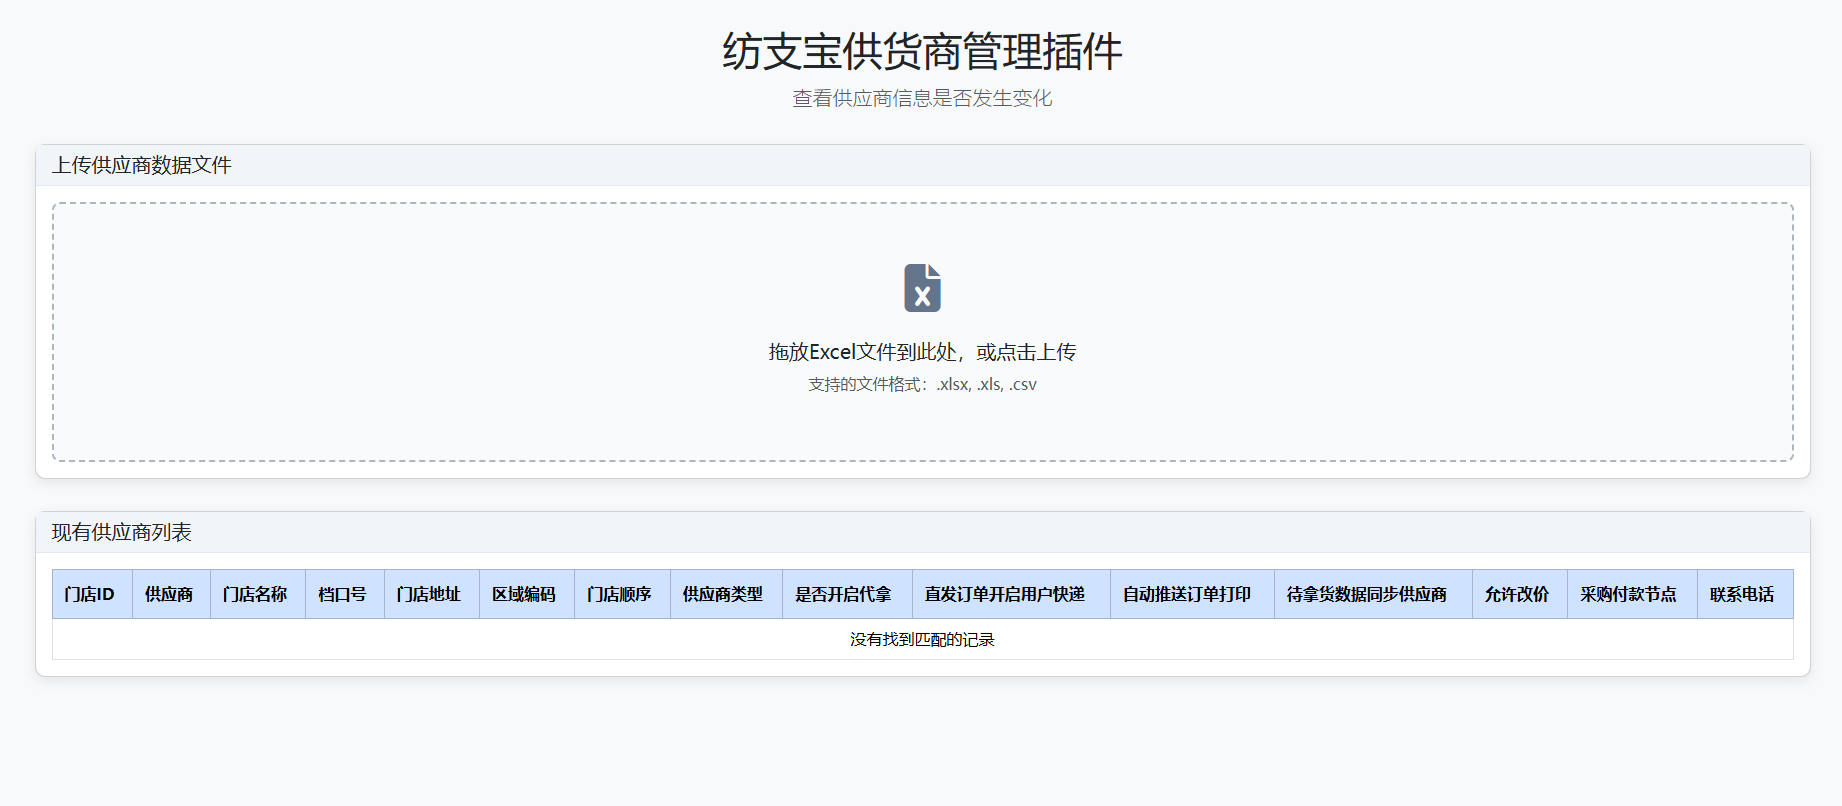
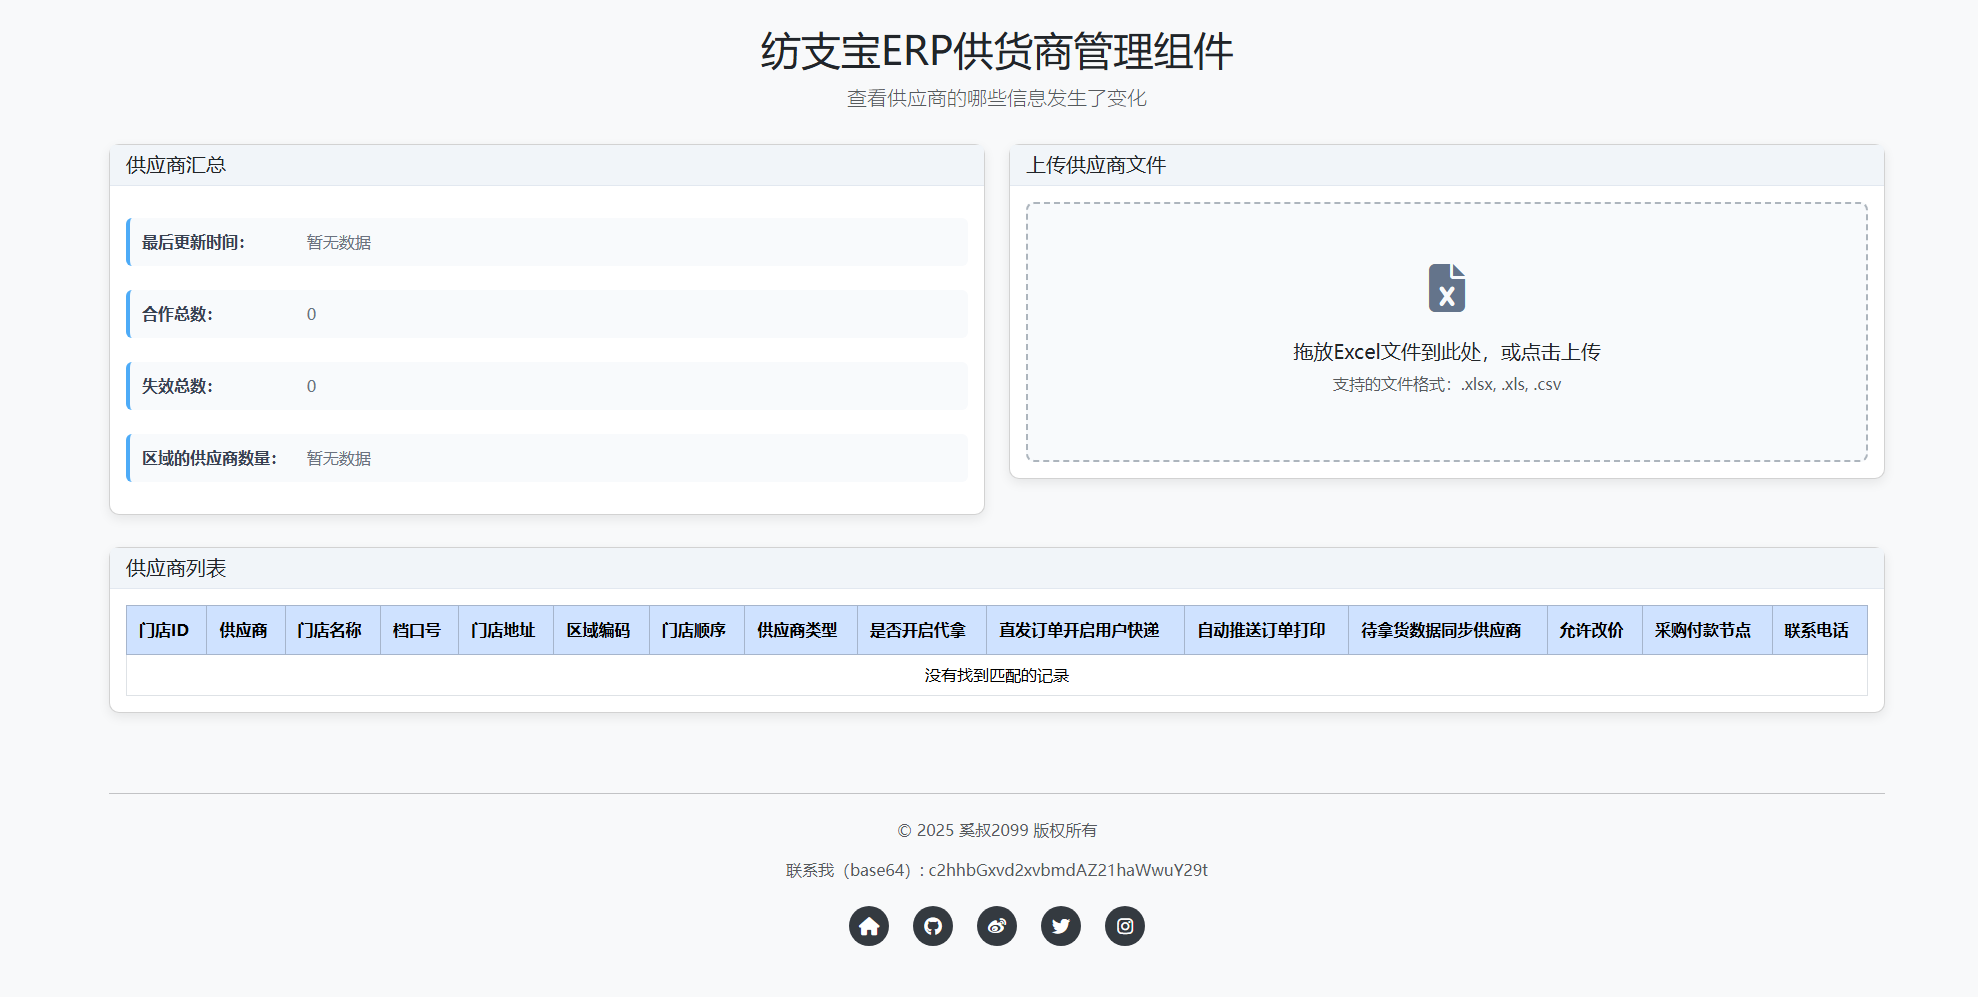
add the supplier data display

diff --git a/views/main.html b/views/main.html
@@ -6,27 +6,59 @@
 			<p class="lead text-muted">查看供应商的哪些信息发生了变化</p>
 		</div>
 
-		<div class="card">
-			<div class="card-header">
-				<h5 class="mb-0">上传供应商数据文件</h5>
-			</div>
-			<div class="card-body">
-				<div class="upload-area" id="uploadArea">
-					<div class="upload-icon">
-						<i class="fas fa-file-excel"></i>
+		<div class="row">
+			<div class="col-md-6">
+				<div class="card">
+					<div class="card-header">
+						<h5 class="mb-0">供应商汇总</h5>
 					</div>
-					<h5>拖放Excel文件到此处，或点击上传</h5>
-					<p class="text-muted">支持的文件格式：.xlsx, .xls, .csv</p>
-					<input type="file" class="file-input" id="fileInput" accept=".xlsx, .xls, .csv">
+					<div class="card-body">
+						<div class="data-display">
+							<div class="data-item">
+								<strong>最后更新时间：</strong>
+								<span id="lastUpdateTime">loading...</span>
+							</div>
+							<div class="data-item">
+								<strong>合作总数：</strong>
+								<span id="totalCooperation">loading...</span>
+							</div>
+							<div class="data-item">
+								<strong>失效总数：</strong>
+								<span id="totalInvalid">loading...</span>
+							</div>
+							<div class="data-item">
+								<strong>区域的供应商数量：</strong>
+								<span id="regionSupplierCount">loading...</span>
+							</div>
+						</div>
+					</div>
 				</div>
+			</div>
 
-				<div class="upload-message alert" id="uploadMessage" role="alert"></div>
-
-				<div class="spinner-container">
-					<div class="spinner-border text-primary" role="status">
-						<span class="visually-hidden">上传中...</span>
+			<div class="col-md-6">
+				<div class="card">
+					<div class="card-header">
+						<h5 class="mb-0">上传供应商文件</h5>
 					</div>
-					<p class="mt-2">正在上传文件，请稍候...</p>
+					<div class="card-body">
+						<div class="upload-area" id="uploadArea">
+							<div class="upload-icon">
+								<i class="fas fa-file-excel"></i>
+							</div>
+							<h5>拖放Excel文件到此处，或点击上传</h5>
+							<p class="text-muted">支持的文件格式：.xlsx, .xls, .csv</p>
+							<input type="file" class="file-input" id="fileInput" accept=".xlsx, .xls, .csv">
+						</div>
+
+						<div class="upload-message alert" id="uploadMessage" role="alert"></div>
+
+						<div class="spinner-container">
+							<div class="spinner-border text-primary" role="status">
+								<span class="visually-hidden">上传中...</span>
+							</div>
+							<p class="mt-2">正在上传文件，请稍候...</p>
+						</div>
+					</div>
 				</div>
 			</div>
 		</div>
@@ -51,7 +83,7 @@
 
 		<div class="card">
 			<div class="card-header">
-				<h5 class="mb-0">现有供应商列表</h5>
+				<h5 class="mb-0">供应商列表</h5>
 			</div>
 			<div class="card-body">
 				<table id="supplierStoreTable" class="hidden">

diff --git a/public/js/main.js b/public/js/main.js
@@ -4,6 +4,9 @@ $(document).ready(function () {
 	const uploadMessage = $('#uploadMessage');
 	const spinnerContainer = $('.spinner-container');
 
+	// 页面加载时获取供应商统计数据
+	loadSupplierStatistics();
+
 	uploadArea.click(function (e) {
 		e.stopPropagation();
 		fileInput.click();
@@ -454,6 +457,55 @@ $(document).ready(function () {
 					$btn.html(originalText).prop('disabled', false);
 				}
 			});
+		}
+	}
+
+	function loadSupplierStatistics() {
+		$.ajax({
+			url: '/getSupplierStatistics',
+			type: 'GET',
+			dataType: 'json',
+			success: function (response) {
+				if (response.success && response.data) {
+					updateStatisticsDisplay(response.data, false);
+				} else {
+					console.error('获取统计数据失败:', response.message);
+					updateStatisticsDisplay({}, true);
+				}
+			},
+			error: function (xhr, status, error) {
+				console.error('获取统计数据失败:', error);
+				updateStatisticsDisplay({}, true);
+			}
+		});
+	}
+
+	function updateStatisticsDisplay(data, failed) {
+		if (failed) {
+			let displayText = '获取失败..';
+			$('#lastUpdateTime').text(displayText);
+			$('#totalCooperation').text(displayText);
+			$('#totalInvalid').text(displayText);
+			$('#regionSupplierCount').text(displayText);
+			return;
+		}
+
+		if (data.lastUpdateTime) {
+			const updateTime = new Date(data.lastUpdateTime);
+			$('#lastUpdateTime').text(updateTime.toLocaleString('zh-CN'));
+		} else {
+			$('#lastUpdateTime').text('暂无数据');
+		}
+		$('#totalCooperation').text(data.totalCooperation || 0);
+		$('#totalInvalid').text(data.totalInvalid || 0);
+
+		if (data.regionSupplierCount && data.regionSupplierCount.length > 0) {
+			const regionText = data.regionSupplierCount.map(region => {
+				return `【${region.sectionCode}: ${region.count}个】`;
+			}).join(', ');
+			$('#regionSupplierCount').text(regionText);
+		} else {
+			$('#regionSupplierCount').text('暂无数据');
 		}
 	}
 });

diff --git a/services/supplierService.js b/services/supplierService.js
@@ -301,11 +301,70 @@ async function updateSuppliersFromData(suppliers) {
 	}
 }
 
+/**
+ * @description 获取供应商统计数据
+ * @returns {Object} 统计数据对象
+ */
+async function getSupplierStatistics() {
+	try {
+		const lastUpdatedSupplier = await supplierStoreModel.findOne({
+			order: [['updatedAt', 'DESC']],
+			attributes: ['updatedAt']
+		});
+
+		const totalCooperation = await supplierStoreModel.count({
+			where: {
+				supplierType: '代发'
+			}
+		});
+
+		const totalInvalid = await supplierStoreModel.count({
+			where: {
+				supplierType: {
+					[Op.ne]: '代发'
+				}
+			}
+		});
+
+		const regionStats = await supplierStoreModel.findAll({
+			attributes: [
+				'sectionCode',
+				[sequelize.fn('COUNT', sequelize.col('sectionCode')), 'count']
+			],
+			where: {
+				supplierType: '代发',
+				sectionCode: {
+					[Op.ne]: ''
+				}
+			},
+			group: ['sectionCode'],
+			order: [['count', 'DESC']]
+		});
+
+		// 格式化区域统计数据
+		const regionSupplierCount = regionStats.map(stat => ({
+			sectionCode: stat.sectionCode,
+			count: stat.dataValues.count
+		}));
+
+		return {
+			lastUpdateTime: lastUpdatedSupplier ? lastUpdatedSupplier.updatedAt : null,
+			totalCooperation,
+			totalInvalid,
+			regionSupplierCount
+		};
+	} catch (error) {
+		logger.error('获取供应商统计数据失败:', error);
+		throw new Error('获取供应商统计数据失败');
+	}
+}
+
 module.exports = {
 	getAllSuppliers,
 	getSuppliersByName,
 	getSuppliersByAddress,
 	addNewSuppliersFromExcel,
 	addNewSuppliersFromData,
-	updateSuppliersFromData
+	updateSuppliersFromData,
+	getSupplierStatistics
 }

diff --git a/routes/mainRoute.js b/routes/mainRoute.js
@@ -9,7 +9,6 @@ const authToken = require('./authRoute');
 
 const supplierService = require('../services/supplierService');
 
-
 router.get('/', authToken, async (req, res, next) => {
 	let suppliers = await supplierService.getAllSuppliers();
 	res.render('main', {
@@ -106,5 +105,24 @@ function _rmUploadedFile(uploadPath) {
 		logger.debug(`成功删除文件：${uploadPath}`);
 	});
 }
+
+/**
+ * @route GET /getSupplierStatistics
+ * @description 获取供应商统计数据
+ */
+router.get('/getSupplierStatistics', async (req, res) => {
+	try {
+		const statistics = await supplierService.getSupplierStatistics();
+
+		res.status(200).json({
+			success: true,
+			message: '供应商统计数据获取成功',
+			data: statistics
+		});
+	} catch (error) {
+		logger.error('获取供应商统计数据时出错:', error);
+		res.status(500).json({ success: false, message: '服务器内部错误' });
+	}
+});
 
 module.exports = router;

diff --git a/public/css/main.css b/public/css/main.css
@@ -58,3 +58,43 @@
 .hidden {
 	display: none;
 }
+
+/* 数据展示模块样式 */
+.data-display {
+	padding: 1rem 0;
+}
+
+.data-item {
+	margin-bottom: 1.5rem;
+	padding: 0.75rem;
+	background-color: #f8fafc;
+	border-radius: 6px;
+	border-left: 4px solid #4dabf7;
+}
+
+.data-item:last-child {
+	margin-bottom: 0;
+}
+
+.data-item strong {
+	color: #374151;
+	font-weight: 600;
+	display: inline-block;
+	min-width: 160px;
+}
+
+.data-item span {
+	color: #6b7280;
+	font-weight: 500;
+}
+
+@media (max-width: 768px) {
+	.row {
+		margin: 0;
+	}
+
+	.col-md-6 {
+		padding: 0;
+		margin-bottom: 1rem;
+	}
+}

diff --git a/README.md b/README.md
@@ -3,7 +3,7 @@
 一个用于检查纺支宝ERP内置的供货商的信息是否存在更新的插件。<br>
 由于纺支宝ERP会默认管理供货商信息，但却没有更新通知功能，有点不方便。<br>
 该工具提供了一个交互的UI界面，可以上传从纺支宝ERP导出的供货商列表文件<br>
-通过上传后对现有信息的比对，及时更新到自己的纺支宝ERP供应商模块中，如地区区域编码，门店顺序，门店地址等信息。<br>
+通过上传后对现有信息的比对，及时更新到自己的纺支宝ERP供应商模块中，如区域编码，门店顺序，门店地址等信息。<br>
 
 ![](screenshot.png)
 
